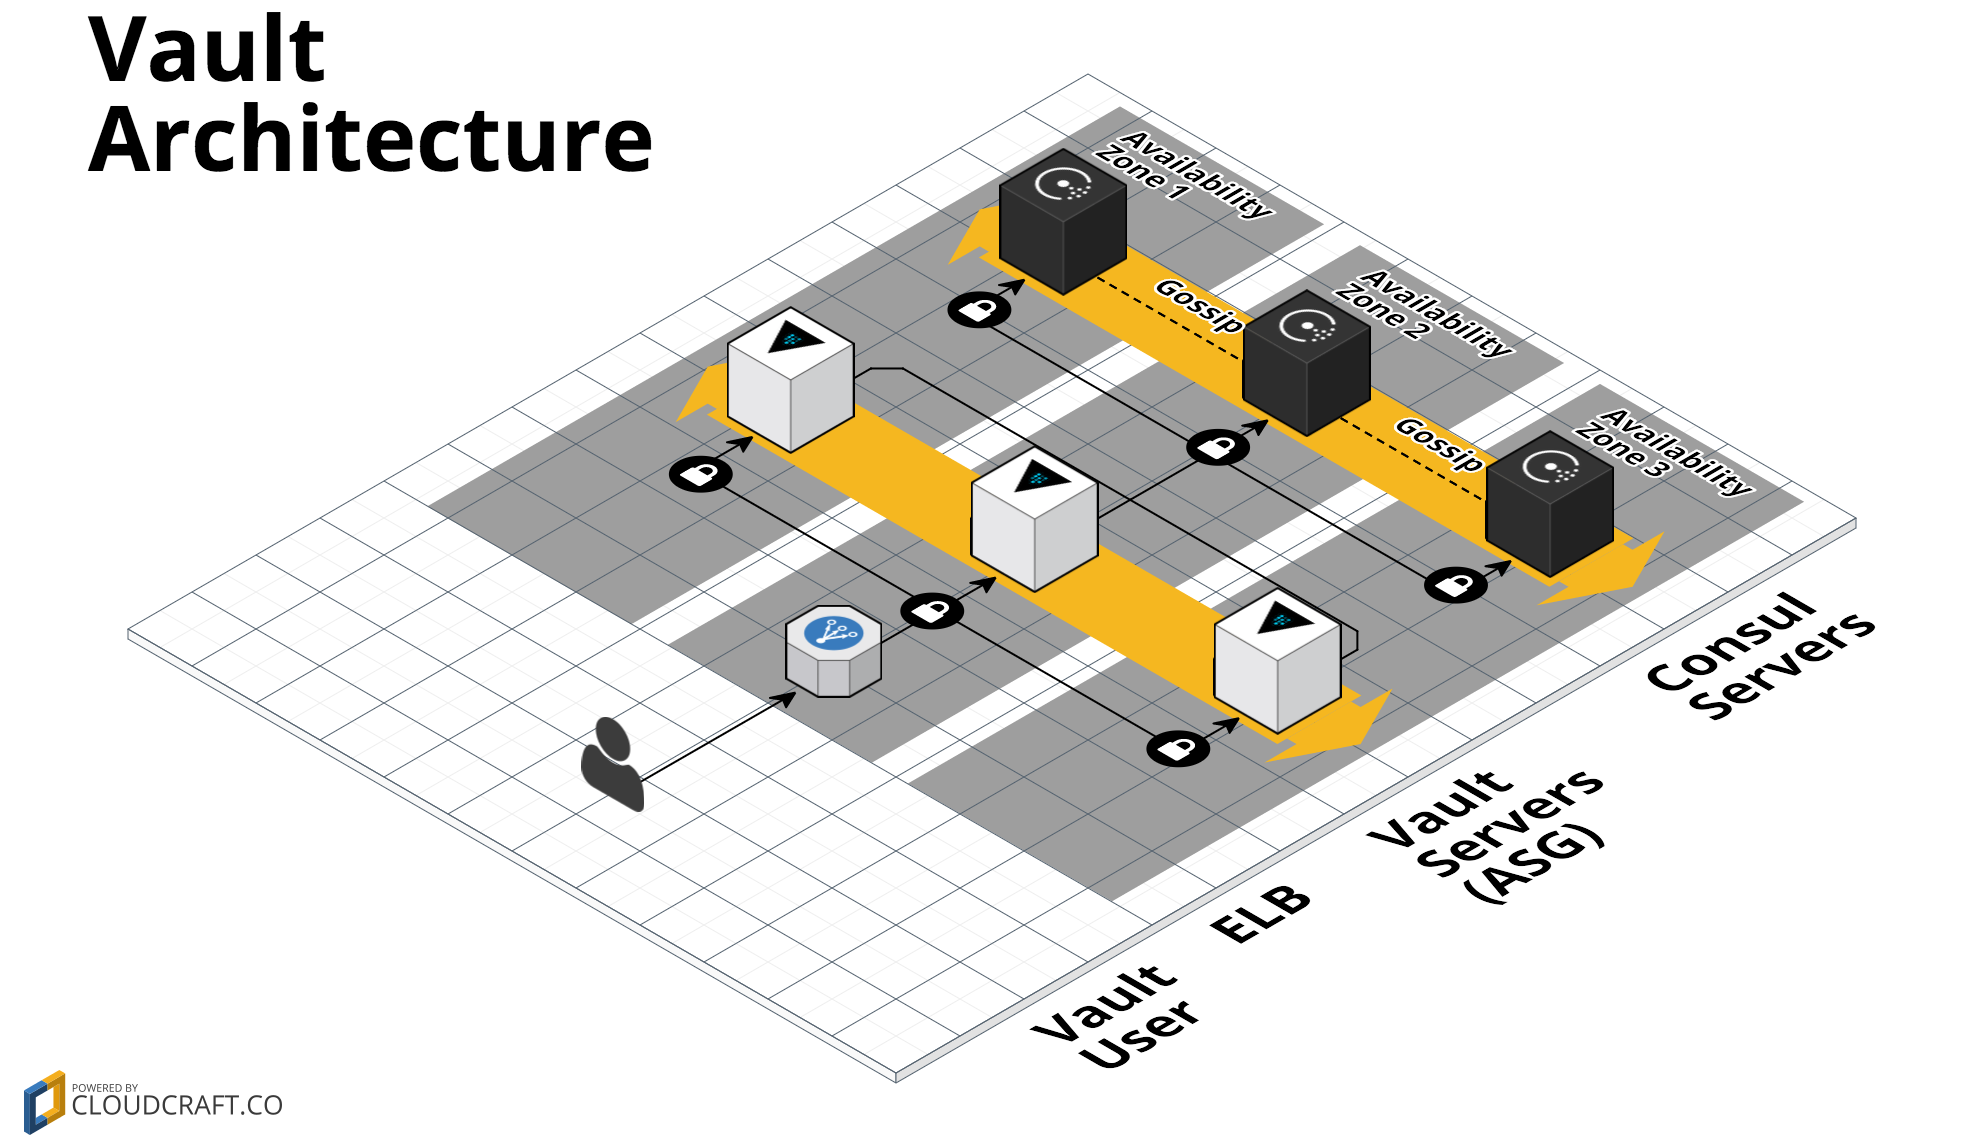
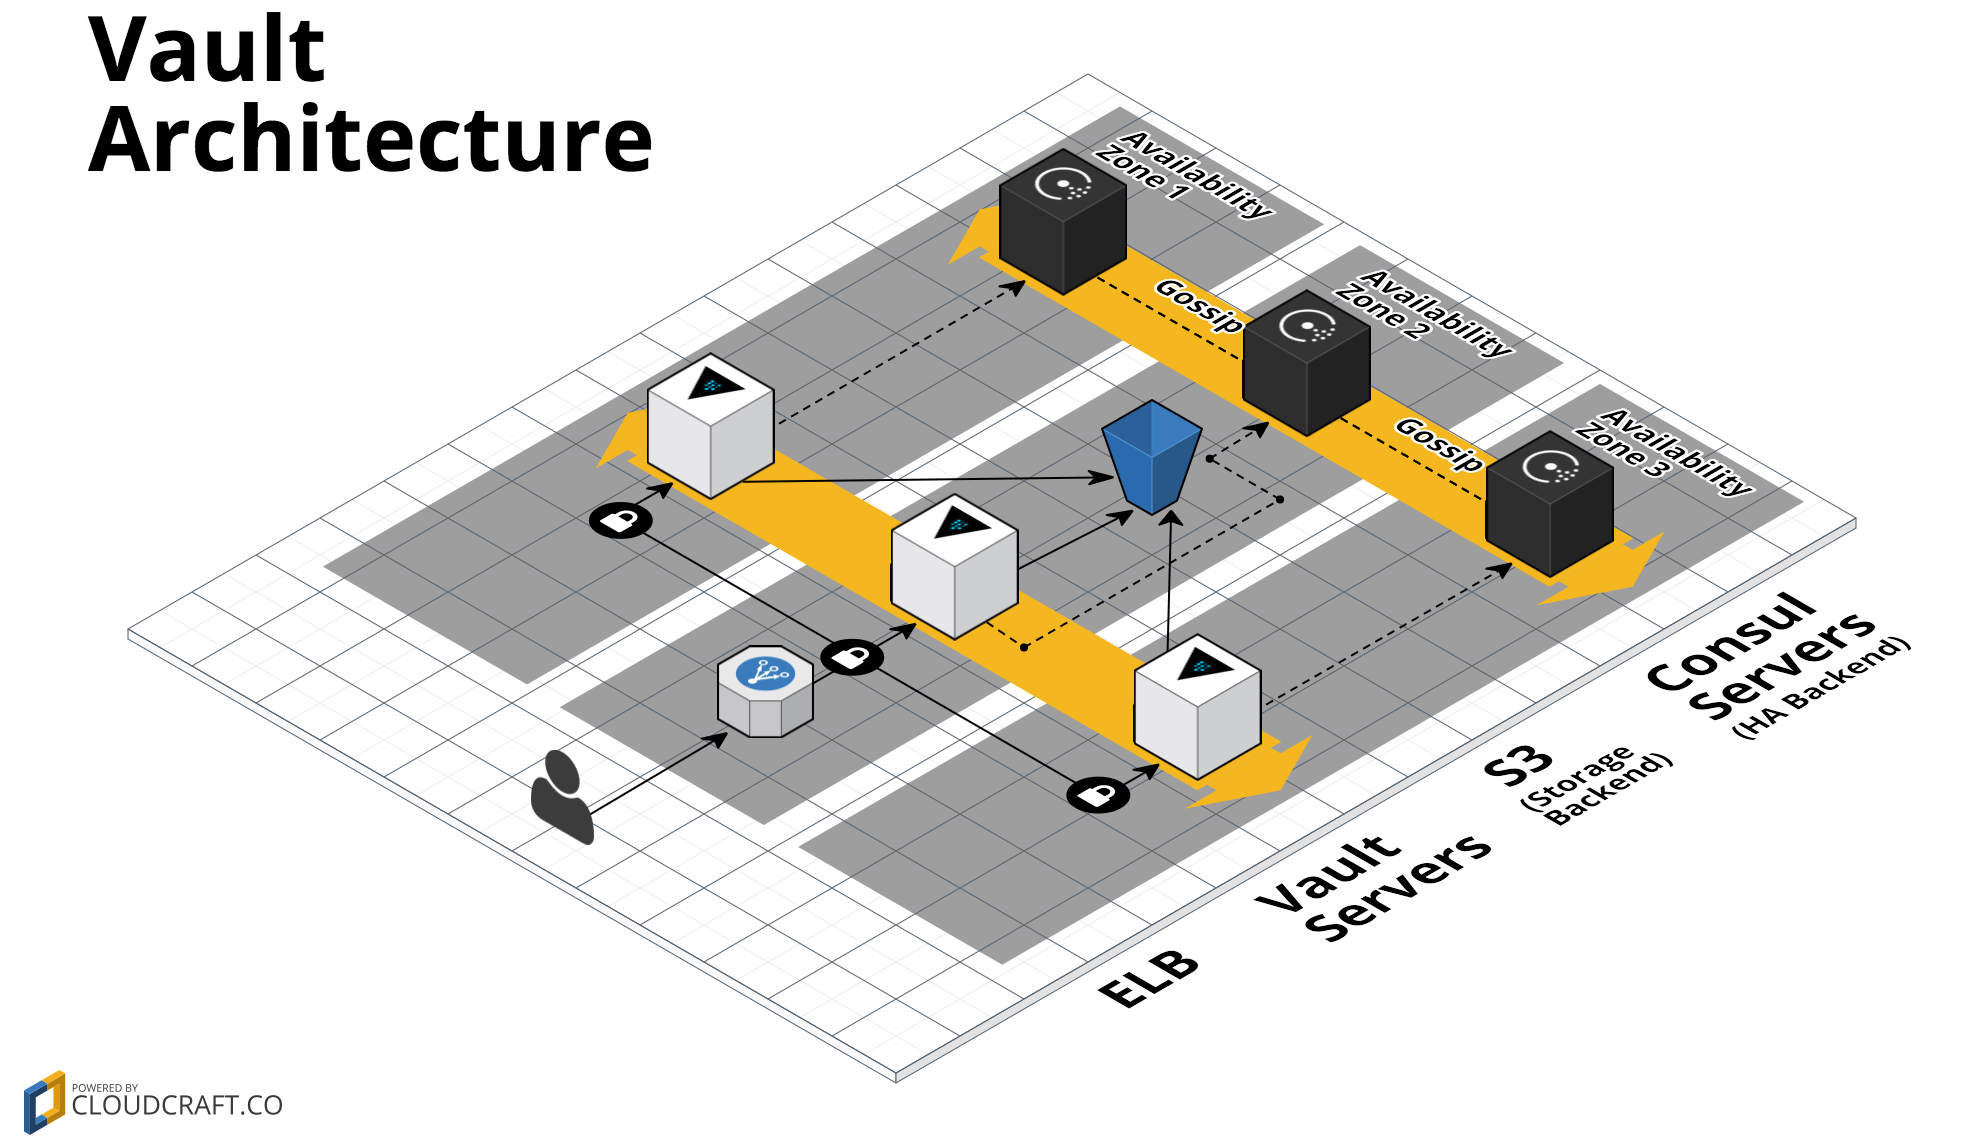
Use S3 as a storage backend

diff --git a/modules/vault-cluster/README.md b/modules/vault-cluster/README.md
@@ -22,10 +22,13 @@ module "vault_cluster" {
   # Specify the ID of the Vault AMI. You should build this using the scripts in the install-vault module.
   ami_id = "ami-abcd1234"
   
+  # This module uses S3 as a storage backend
+  s3_bucket_name   = "${var.vault_s3_bucket}"
+  
   # Configure and start Vault during boot. 
   user_data = <<-EOF
               #!/bin/bash
-              /opt/vault/bin/run-vault --tls-cert-file /opt/vault/tls/vault.crt.pem --tls-key-file /opt/vault/tls/vault.key.pem
+              /opt/vault/bin/run-vault --s3-bucket ${var.vault_s3_bucket} --s3-bucket-region ${var.aws_region} --tls-cert-file /opt/vault/tls/vault.crt.pem --tls-key-file /opt/vault/tls/vault.key.pem
               EOF
   
   # ... See vars.tf for the other parameters you must define for the vault-cluster module
@@ -44,6 +47,8 @@ Note the following parameters:
   (AMI)](http://docs.aws.amazon.com/AWSEC2/latest/UserGuide/AMIs.html) to deploy on each server in the cluster. You
   should install Vault in this AMI using the scripts in the [install-vault](/modules/install-vault) module.
   
+* `s3_bucket_name`: This module creates an [S3](https://aws.amazon.com/s3/) to use as a storage backend for Vault.
+ 
 * `user_data`: Use this parameter to specify a [User 
   Data](http://docs.aws.amazon.com/AWSEC2/latest/UserGuide/user-data.html#user-data-shell-scripts) script that each
   server will run during boot. This is where you can use the [run-vault script](/modules/run-vault) to configure and 
@@ -241,6 +246,7 @@ This module creates the following architecture:
 This architecture consists of the following resources:
 
 * [Auto Scaling Group](#auto-scaling-group)
+* [S3 bucket](#s3-bucket)
 * [Security Group](#security-group)
 * [IAM Role and Permissions](#iam-role-and-permissions)
 
@@ -252,6 +258,14 @@ should run the ASG with 3 or 5 EC2 Instances spread across multiple [Availabilit
 Zones](http://docs.aws.amazon.com/AWSEC2/latest/UserGuide/using-regions-availability-zones.html). Each of the EC2
 Instances should be running an AMI that has had Vault installed via the [install-vault](/modules/install-vault)
 module. You pass in the ID of the AMI to run using the `ami_id` input parameter.
+
+
+### S3 Bucket
+
+This module creates an [S3 bucket](https://aws.amazon.com/s3/) that Vault can use as a storage backend. S3 is a good
+choice for storage because it provides outstanding durability (99.999999999%) and availability (99.99%).  Unfortunately,
+S3 cannot be used for Vault High Availability coordination, so this module expects a separate Consul server cluster to 
+be deployed as a high availability backend.
 
 
 ### Security Group
@@ -270,8 +284,9 @@ Check out the [Security section](#security) for more details.
 
 ### IAM Role and Permissions
 
-Each EC2 Instance in the ASG has an [IAM Role](http://docs.aws.amazon.com/IAM/latest/UserGuide/id_roles.html) attached. 
-The IAM Role ARN is exported as an output variable so you can add permissions. 
+Each EC2 Instance in the ASG has an [IAM Role](http://docs.aws.amazon.com/IAM/latest/UserGuide/id_roles.html) attached
+with permissions to access its S3 bucket. The IAM Role ARN is exported as an output variable so you can add custom
+permissions. 
 
 
 
@@ -413,17 +428,18 @@ This module does NOT handle the following items, which you may want to provide o
 
 ### Consul
 
-This module assumes you already have Consul deployed in a separate cluster. We do not recommend co-locating Vault and
-Consul in the same cluster because:
+This blueprint configures Vault to use Consul as a high availability storage backend. This module assumes you already 
+have Consul servers deployed in a separate cluster. We do not recommend co-locating Vault and Consul servers in the 
+same cluster because:
 
 1. Vault is a tool built specifically for security, and running any other software on the same server increases its
    surface area to attackers.
-1. This Vault Blueprint uses Consul as a storage backend and both Vault and Consul keep their working set in memory. 
-   That means for every 1 byte of data in Vault, you'd also have 1 byte of data in Consul, doubling your memory
-   consumption on the server.
+1. This Vault Blueprint uses Consul as a high availability storage backend and both Vault and Consul keep their working 
+   set in memory. That means for every 1 byte of data in Vault, you'd also have 1 byte of data in Consul, doubling 
+   your memory consumption on each server.
 
 Check out the [Consul AWS Blueprint](https://github.com/gruntwork-io/consul-aws-blueprint) for how to deploy a Consul 
-cluster in AWS. See the [vault-cluster-public](/examples/vault-cluster-public) and 
+server cluster in AWS. See the [vault-cluster-public](/examples/vault-cluster-public) and 
 [vault-cluster-private](/examples/vault-cluster-private) examples for sample code that shows how to run both a
 Vault server cluster and Consul server cluster.
 

diff --git a/modules/run-vault/README.md b/modules/run-vault/README.md
@@ -18,7 +18,7 @@ module](/modules/install-vault). The default install path is `/opt/vault/bin`, s
 run:
 
 ```
-/opt/vault/bin/run-vault --tls-cert-file /opt/vault/tls/vault.crt.pem --tls-key-file /opt/vault/tls/vault.key.pem
+/opt/vault/bin/run-vault --s3-bucket my-vault-bucket --s3-bucket-region us-east-1 --tls-cert-file /opt/vault/tls/vault.crt.pem --tls-key-file /opt/vault/tls/vault.key.pem
 ```
 
 This will:
@@ -48,6 +48,8 @@ See the [vault-cluster-public](/examples/vault-cluster-public) and
 
 The `run-vault` script accepts the following arguments:
 
+* `--s3-bucket` (required): Specifies the S3 bucket to use to store Vault data. 
+* `--s3-bucket-region` (required): Specifies the AWS region where `--s3-bucket` lives. 
 * `--tls-cert-file` (required): Specifies the path to the certificate for TLS. To configure the listener to use a CA 
   certificate, concatenate the primary certificate and the CA certificate together. The primary certificate should 
   appear first in the combined file. See [How do you handle encryption?](#how-do-you_handle-encryption) for more info.
@@ -66,7 +68,7 @@ The `run-vault` script accepts the following arguments:
 Example:
 
 ```
-/opt/vault/bin/run-vault --tls-cert-file /opt/vault/tls/vault.crt.pem --tls-key-file /opt/vault/tls/vault.key.pem
+/opt/vault/bin/run-vault --s3-bucket my-vault-bucket --s3-bucket-region us-east-1 --tls-cert-file /opt/vault/tls/vault.crt.pem --tls-key-file /opt/vault/tls/vault.key.pem
 ```
 
 
@@ -84,8 +86,16 @@ available.
 
 `run-vault` sets the following configuration values by default:
 
-* [storage](https://www.vaultproject.io/docs/configuration/index.html#storage): Configure Consul as the storage 
-  backend with the following settings:
+* [storage](https://www.vaultproject.io/docs/configuration/index.html#storage): Configure S3 as the storage backend
+  with the following settings:
+ 
+     * [bucket](https://www.vaultproject.io/docs/configuration/storage/s3.html#bucket): Set to the `--s3-bucket`
+       parameter.
+     * [region](https://www.vaultproject.io/docs/configuration/storage/s3.html#region): Set to the `--s3-bucket-region` 
+       parameter.
+ 
+* [ha_storage](https://www.vaultproject.io/docs/configuration/index.html#ha_storage): Configure Consul as the [high 
+  availability](https://www.vaultproject.io/docs/concepts/ha.html) storage backend with the following settings:
 
     * [address](https://www.vaultproject.io/docs/configuration/storage/consul.html#address): Set the address to 
       `127.0.0.1:8500`. This is based on the assumption that the Consul agent is running on the same server.
@@ -133,7 +143,7 @@ If you want to override *all* the default settings, you can tell `run-vault` not
 at all using the `--skip-vault-config` flag:
 
 ```
-/opt/vault/bin/run-vault --tls-cert-file /opt/vault/tls/vault.crt.pem --tls-key-file /opt/vault/tls/vault.key.pem --skip-vault-config
+/opt/vault/bin/run-vault --s3-bucket my-vault-bucket --s3-bucket-region us-east-1 --tls-cert-file /opt/vault/tls/vault.crt.pem --tls-key-file /opt/vault/tls/vault.key.pem --skip-vault-config
 ```
 
 
@@ -153,7 +163,7 @@ When you execute the `run-vault` script, you need to provide the paths to the pu
 certificate:
 
 ```
-/opt/vault/bin/run-vault --tls-cert-file /opt/vault/tls/vault.crt.pem --tls-key-file /opt/vault/tls/vault.key.pem
+/opt/vault/bin/run-vault --s3-bucket my-vault-bucket --s3-bucket-region us-east-1 --tls-cert-file /opt/vault/tls/vault.crt.pem --tls-key-file /opt/vault/tls/vault.key.pem
 ```
 
 See the [private-tls-cert module](/modules/private-tls-cert) for information on how to generate a TLS certificate.
@@ -161,9 +171,9 @@ See the [private-tls-cert module](/modules/private-tls-cert) for information on 
 
 ### Consul encryption
 
-Since this Vault Blueprint uses Consul as a storage backend, you may want to enable encryption for Consul too. Note 
-that Vault encrypts any data *before* sending it to a storage backend, so this isn't strictly necessary, but may be
-a good extra layer of security.
+Since this Vault Blueprint uses Consul as a high availability storage backend, you may want to enable encryption for 
+Consul too. Note that Vault encrypts any data *before* sending it to a storage backend, so this isn't strictly 
+necessary, but may be a good extra layer of security.
 
 By default, the Vault server nodes communicate with a local Consul agent running on the same server over (unencrypted) 
 HTTP. However, you can configure those agents to talk to the Consul servers using TLS. Check out the [official Consul 
@@ -172,4 +182,5 @@ encryption docs](https://github.com/gruntwork-io/consul-aws-blueprint/tree/maste
 for more info.
 
 
+ 
 

diff --git a/README.md b/README.md
@@ -2,8 +2,9 @@
 
 This repo contains a Blueprint for how to deploy a [Vault](https://www.vaultproject.io/) cluster on 
 [AWS](https://aws.amazon.com/) using [Terraform](https://www.terraform.io/). Vault is an open source tool for managing
-secrets. This Blueprint uses [Consul](https://www.consul.io) as a [storage 
-backend](https://www.vaultproject.io/docs/configuration/storage/index.html):
+secrets. This Blueprint uses [S3](https://aws.amazon.com/s3/) as a [storage 
+backend](https://www.vaultproject.io/docs/configuration/storage/index.html) and a [Consul](https://www.consul.io) 
+server cluster as a [high availability backend](https://www.vaultproject.io/docs/concepts/ha.html):
 
 ![Vault architecture](/_docs/architecture.png)
 
@@ -70,10 +71,10 @@ Each Blueprint has the following folder structure:
 Click on each of the modules above for more details.
 
 To deploy Vault with this Blueprint, you will need to deploy two separate clusters: one to run 
-[Consul](https://www.consul.io/) servers (which Vault uses as a [storage 
-backend](https://www.vaultproject.io/docs/configuration/storage/index.html)) and one to run
-Vault servers. To deploy the Consul server cluster, use the [Consul AWS 
-Blueprint](https://github.com/gruntwork-io/consul-aws-blueprint). 
+[Consul](https://www.consul.io/) servers (which Vault uses as a [high availability 
+backend](https://www.vaultproject.io/docs/concepts/ha.html)) and one to run Vault servers. 
+
+To deploy the Consul server cluster, use the [Consul AWS Blueprint](https://github.com/gruntwork-io/consul-aws-blueprint). 
 
 To deploy the Vault cluster:
 
@@ -90,20 +91,20 @@ To deploy the Vault cluster:
 
 1. Execute the [run-vault](/modules/run-vault) script during boot on each Instance to create the Vault cluster. 
 
+1. If you only need to access Vault from inside your AWS account (recommended), run the [install-dnsmasq 
+   module](https://github.com/gruntwork-io/consul-aws-blueprint/tree/master/modules/install-dnsmasq) on each server, and 
+   that server will be able to reach Vault using the Consul Server cluster as the DNS resolver (e.g. using an address 
+   like `vault.service.consul`). See the [vault-cluster-private example](/examples/vault-cluster-private) for working 
+   sample code.
+
+1. If you need to access Vault from the public Internet, deploy the [vault-elb module](/modules/vault-elb) in a public 
+   subnet and have all requests to Vault go through the ELB. See the [vault-cluster-public 
+   example](/examples/vault-cluster-public) for working sample code.
+
 1. Head over to the [How do you use the Vault cluster?](/modules/vault-cluster#how-do-you-use-the-vault-cluster) guide
    to learn how to initialize, unseal, and use Vault.
 
-If you only need to access Vault from inside your AWS account (recommended), run the [install-dnsmasq 
-module](https://github.com/gruntwork-io/consul-aws-blueprint/tree/master/modules/install-dnsmasq) on each server, and 
-that server will be able to reach Vault using the Consul Server cluster as the DNS resolver (e.g. using an address l
-ike `vault.service.consul`). See the [vault-cluster-private example](/examples/vault-cluster-private) for working 
-sample code.
-
-If you need to access Vault from the public Internet, deploy the [vault-elb module](/modules/vault-elb) in a public 
-subnet and have all requests to Vault go through the ELB. See the [vault-cluster-public 
-example](/examples/vault-cluster-public) for working sample code.
-
-
+ 
  
 
 
